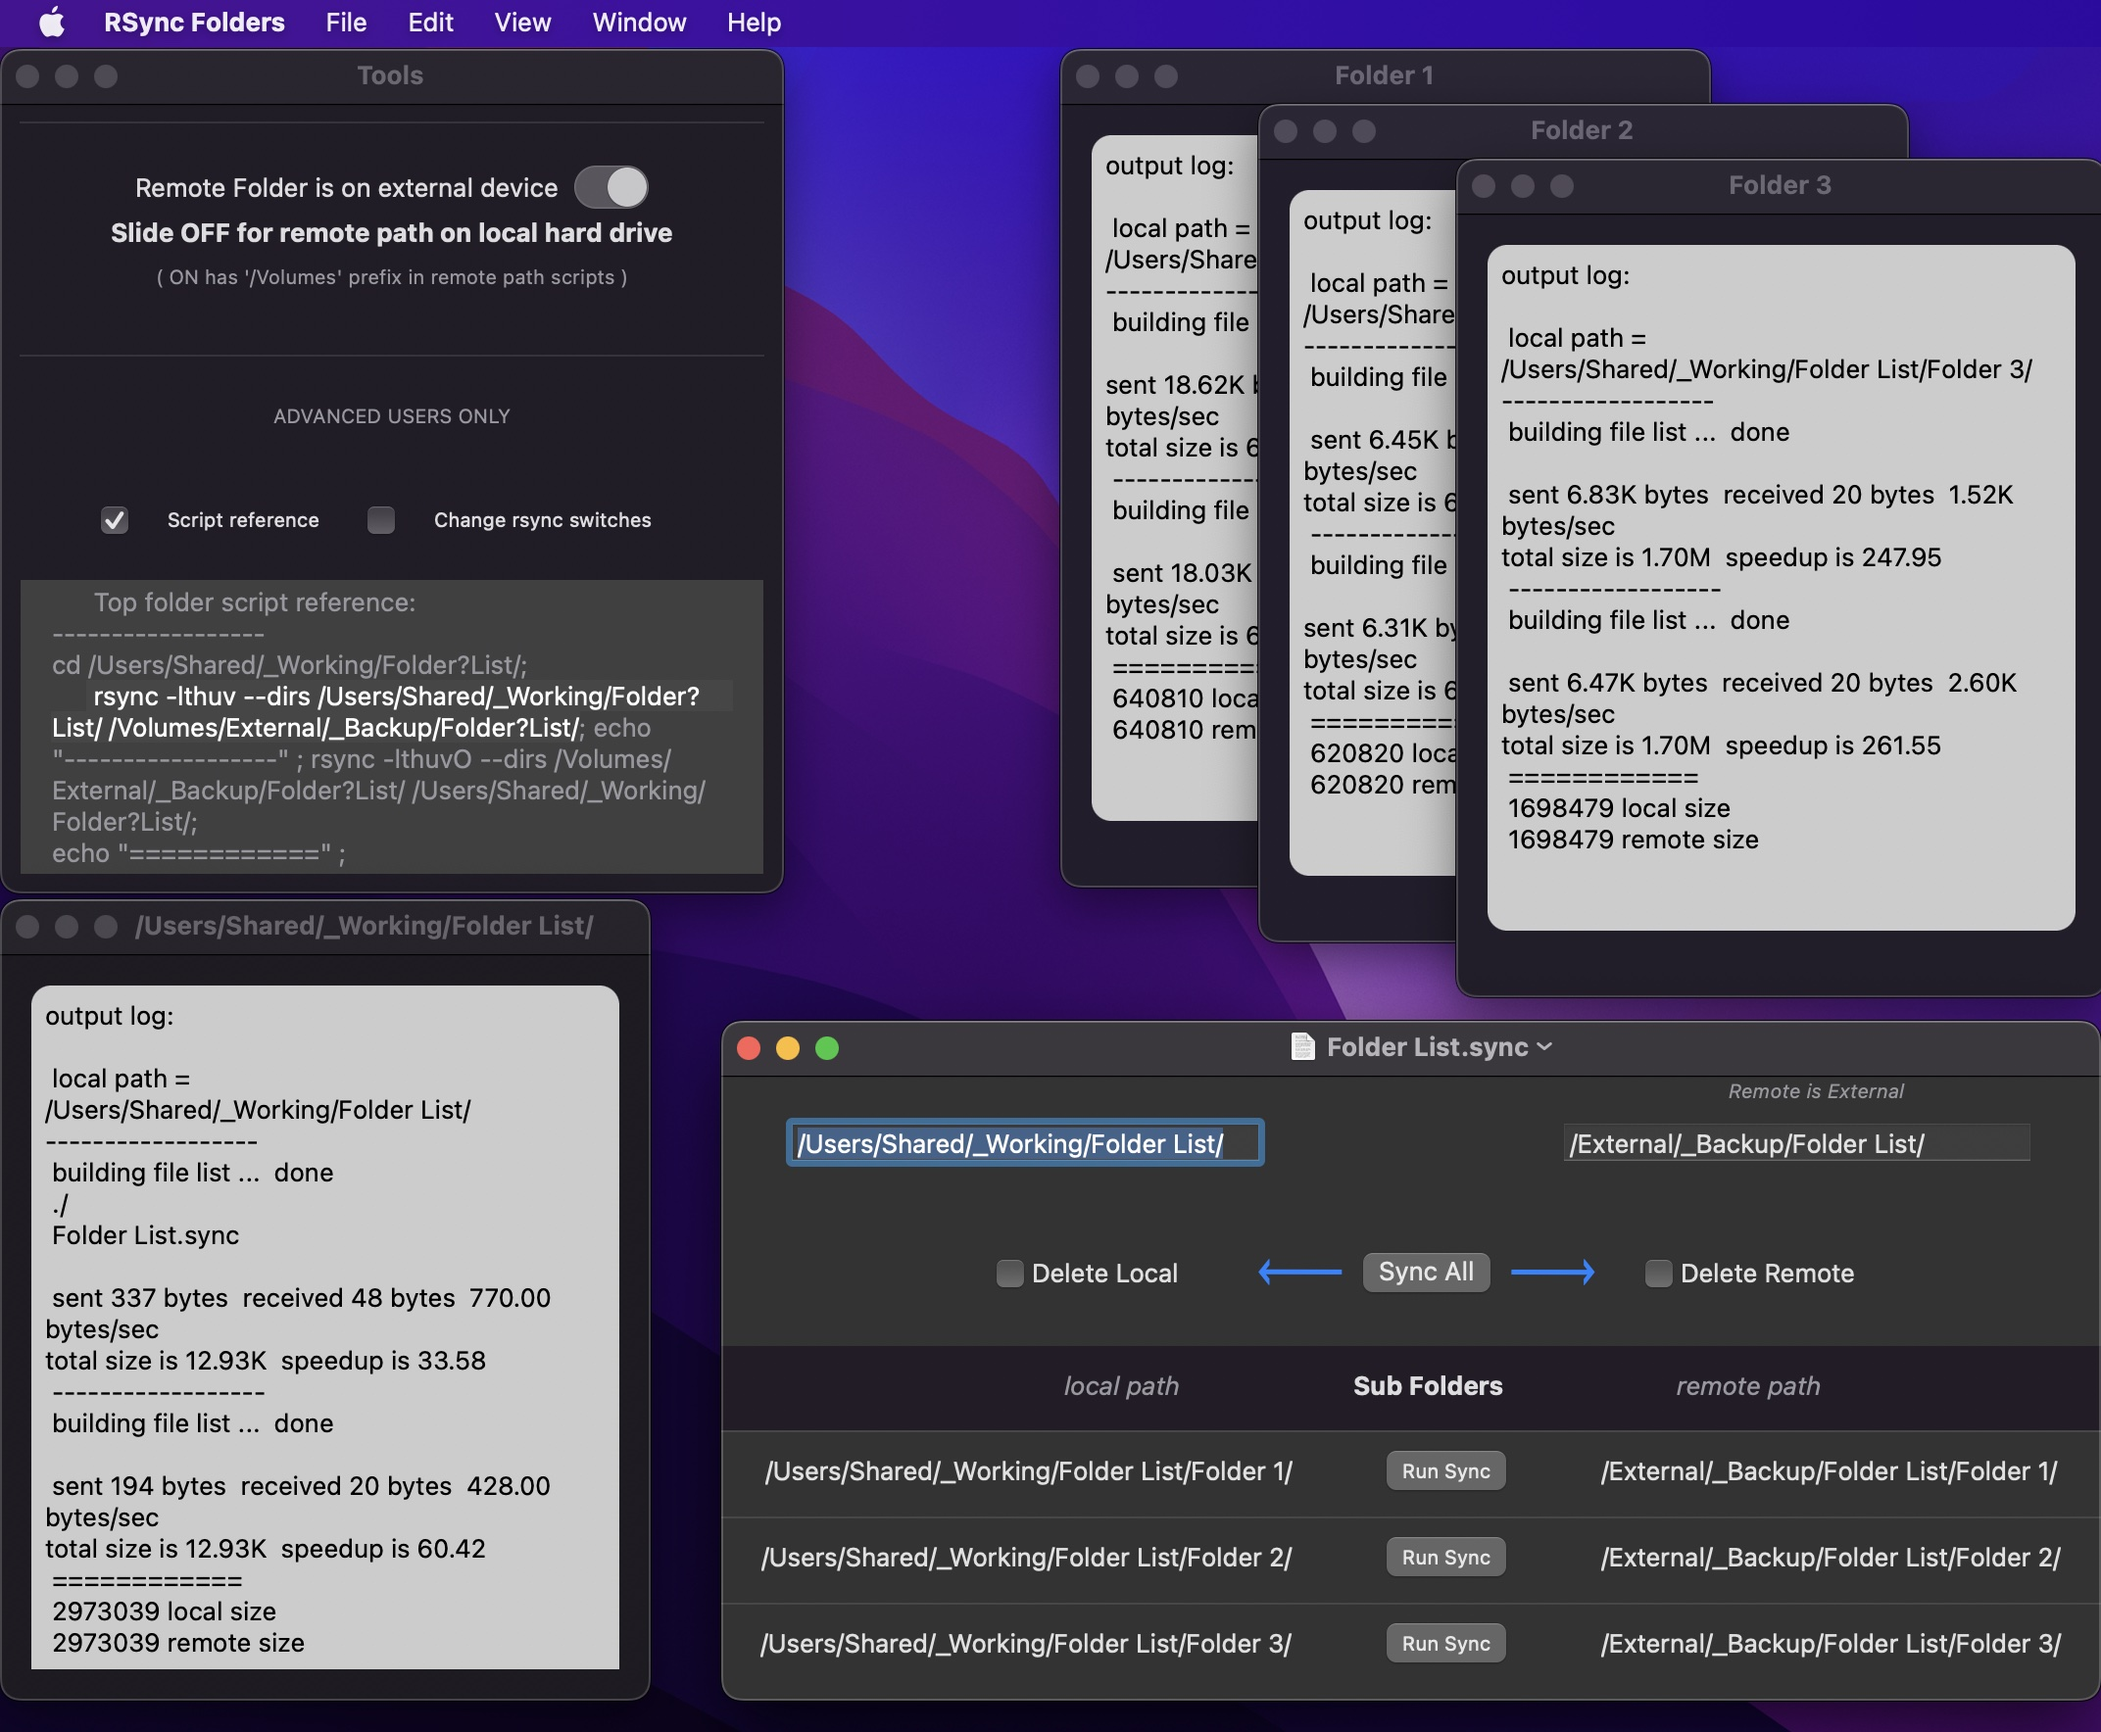
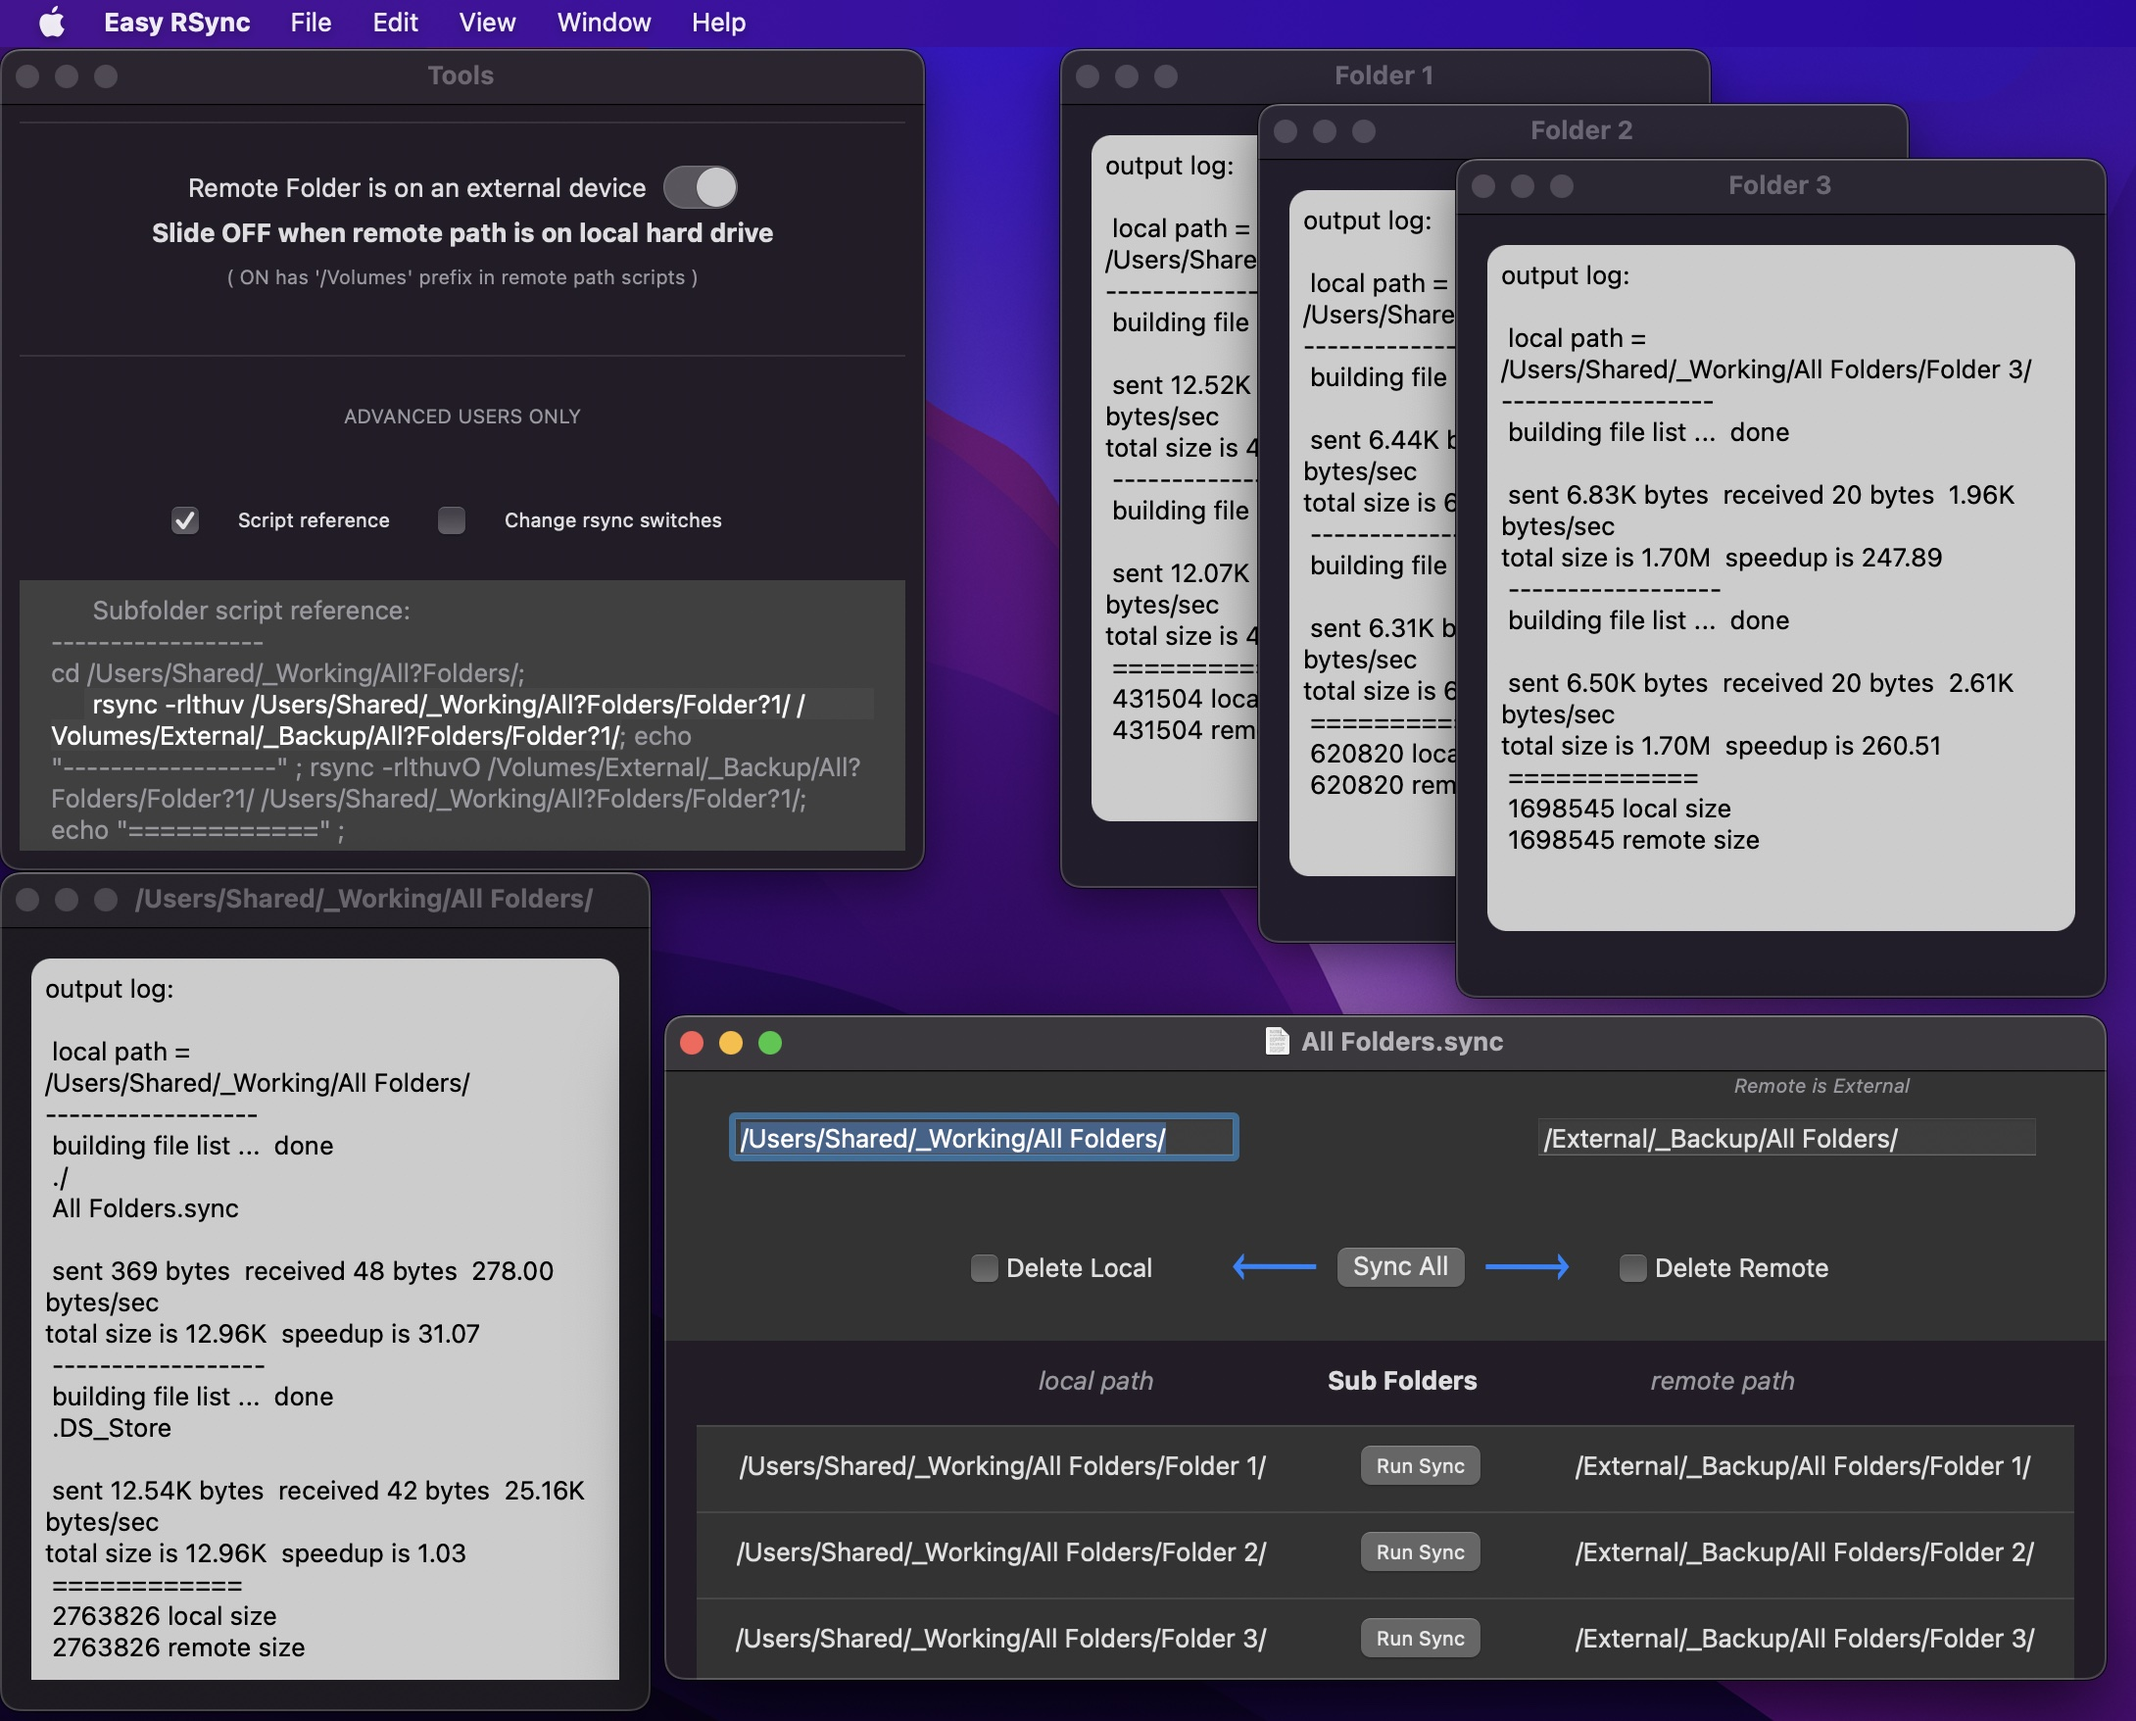
Picture named Easy RSync

diff --git a/index.html b/index.html
@@ -45,9 +45,9 @@
                <img src="RSync-Full.jpg" alt="RSync Folders" style="width:800px;height:600px;">
                   </p>
                   
-                  <p>Backs up and synchronizes files from a folder and all it's sub-folders. Folder scripts run simultaneously for multiprocessing speed.
+                  <p>Backs up and synchronizes files from a folder and all it's sub-folders. Sync All feature runs sub-folder scripts simultaneously for multiprocessing speed.
                   </p>
-                  <p>RSync utility in bi-directional mode moves latest file changes from both local and remote locations.  
+                  <p>Uses the UNIX RSync script to move latest changes bi-directionally from both local and remote locations.  
                   </p>
             </td>
             
